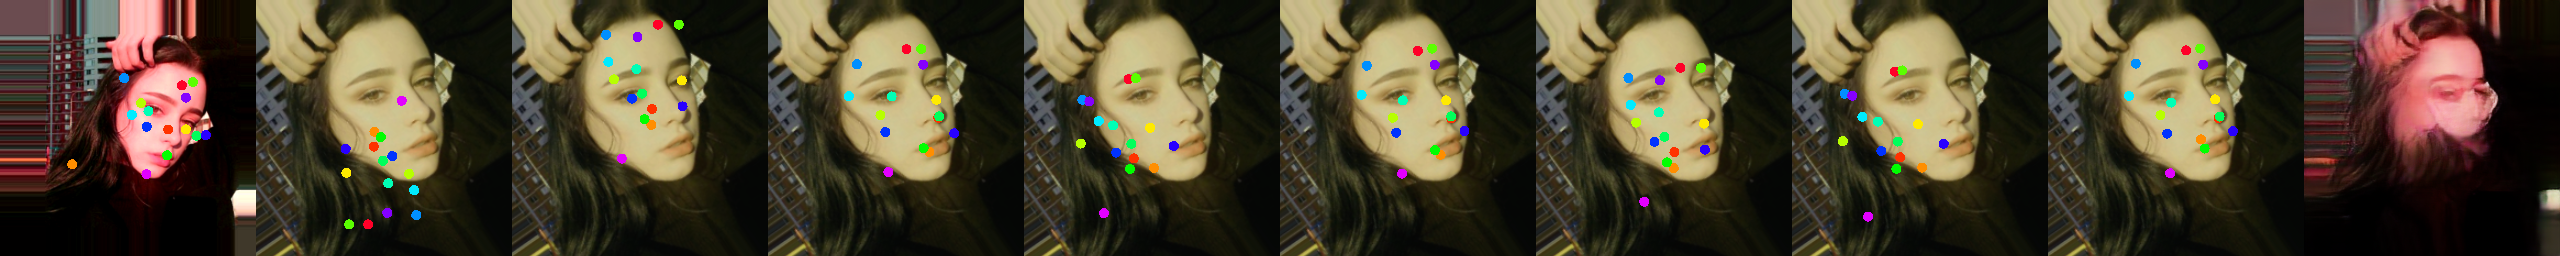
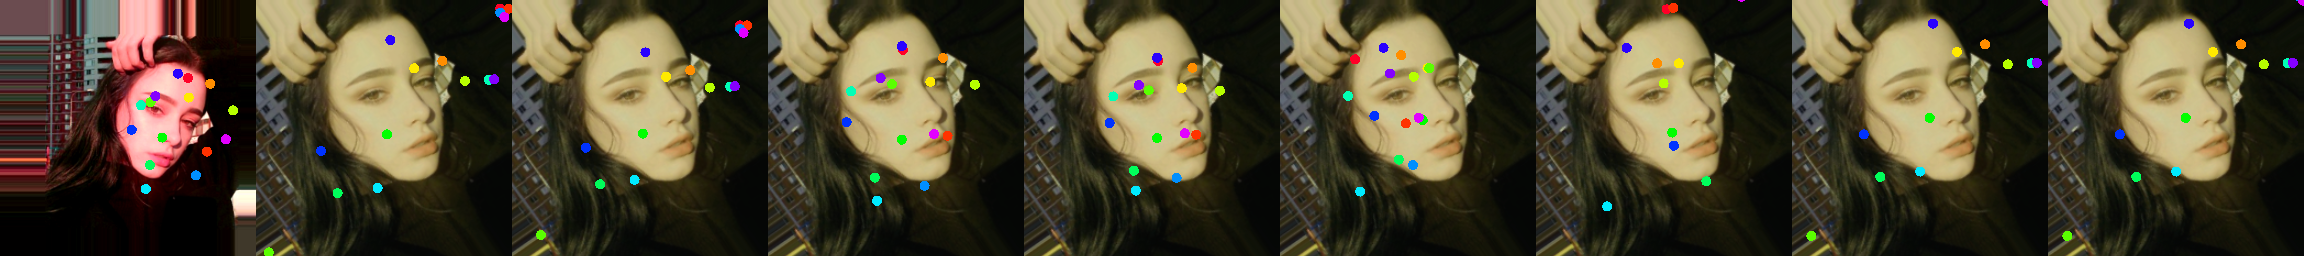
no detach

diff --git a/draw_kp.py b/draw_kp.py
@@ -232,8 +232,9 @@ def demo(args):
         with torch.no_grad():
             hp.eval()
             yaw, pitch, roll = hp(F.interpolate(apply_imagenet_normalization(s), size=(224, 224)))
-        kp_s, Rs = transform_kp(kp_c, yaw, pitch, roll, t, scale)
-        kp_s, _, _, _, _ = g_models["efe"](s, None, kp_s, train_vae=False)
+        
+        delta_s, _, _, _, _ = g_models["efe"](s, None, kp_c)
+        kp_s, Rs = transform_kp(kp_c + delta_s, yaw, pitch, roll, t, scale)
         
         for dri in driving_paths:
             img = img_as_float32(io.imread(dri))[:, :, :3]
@@ -245,33 +246,25 @@ def demo(args):
                 yaw, pitch, roll = hp(F.interpolate(apply_imagenet_normalization(img), size=(224, 224)))
             
             # delta = delta
-            kp_d1, Rd = transform_kp(kp_c, yaw*0, pitch*0, roll*0, t*0, scale=1)
+            delta_d, _, _, _, _ = g_models["efe"](img, None, kp_c)
+            kp_d1 = kp_c
             kp_d2, Rd = transform_kp(kp_c, yaw*0, pitch*0, roll*0, t*0, scale)
-            # kp_d2 = kp_d1 * -1
-            kp_d3, _, _, _, _ = g_models["efe"](img, None, kp_d2, train_vae=False)
-            
-            kp_d4, Rd = transform_kp(kp_c, yaw, pitch, roll, t, scale=-1)
-            kp_d5, _, _, _, _ = g_models["efe"](img, None, kp_d4, train_vae=False)
+            kp_d3 = kp_c + delta_d
+            kp_d4, Rd = transform_kp(kp_c + delta_d, yaw*0, pitch*0, roll*0, t*0, scale)
+            kp_d5, Rd = transform_kp(kp_c + delta_d, yaw, pitch, roll, t, scale)
+            kp_d6, Rd = transform_kp(kp_c + delta_d*0, yaw, pitch, roll, t*0, scale=1)
+            kp_d7, Rd = transform_kp(kp_c + delta_d*0, yaw*0, pitch*0, roll*0, t, scale=1)
+            kp_d8 = kp_d7
 
-            # kp_d6, Rd = transform_kp(kp_c, yaw, pitch, roll, t, scale=-1)
-            # kp_d7, _, _, _, _ = g_models["efe"](img, None, kp_d6, train_vae=False)
-            
-            kp_d6, Rd = transform_kp(kp_c, yaw*0, pitch*0, roll*0, t, scale)
-            kp_d7, Rd = transform_kp(kp_c, yaw, pitch, roll, t, scale)
-            kp_d8, _, _, _, _ = g_models["efe"](img, None, kp_c, train_vae=False)
-            # print(kp_c)
-            # print(scale)
-            # print(t)
-            # print(kp_d7 - kp_d7_old)
-            # print(Rd)
-            deformation, occlusion, mask = g_models["mfe"](fs, kp_s, kp_d8, Rs, Rd)
-            generated_d = g_models["generator"](fs, deformation, occlusion)
+
+            # deformation, occlusion, mask = g_models["mfe"](fs, kp_s, kp_d8, Rs, Rd)
+            # generated_d = g_models["generator"](fs, deformation, occlusion)
 
             s_np = s.data.cpu()
             kp_s_np = kp_s.data.cpu().numpy()[:, :, :2]
             s_np = np.transpose(s_np, [0, 2, 3, 1])
             img_np = img.data.cpu()
-            generated_d_np = generated_d.data.cpu()
+            # generated_d_np = generated_d.data.cpu()
 
             kp_d1_np = kp_d1.data.cpu().numpy()[:, :, :2]
             kp_d2_np = kp_d2.data.cpu().numpy()[:, :, :2]
@@ -283,8 +276,8 @@ def demo(args):
             kp_d8_np = kp_d8.data.cpu().numpy()[:, :, :2]
 
             img_np = np.transpose(img_np, [0, 2, 3, 1])
-            generated_d_np = np.transpose(generated_d_np, [0, 2, 3, 1])
-            img_with_kp = [(s_np, kp_s_np), (img_np, kp_d1_np), (img_np, kp_d2_np), (img_np, kp_d3_np), (img_np, kp_d4_np), (img_np, kp_d5_np), (img_np, kp_d6_np), (img_np, kp_d7_np), (img_np, kp_d8_np),generated_d_np]
+            # generated_d_np = np.transpose(generated_d_np, [0, 2, 3, 1])
+            img_with_kp = [(s_np, kp_s_np), (img_np, kp_d1_np), (img_np, kp_d2_np), (img_np, kp_d3_np), (img_np, kp_d4_np), (img_np, kp_d5_np), (img_np, kp_d6_np), (img_np, kp_d7_np), (img_np, kp_d8_np)]
             img_with_kp = vs.create_image_grid(*img_with_kp)
             img_with_kp = img_with_kp.clip(0, 1)
             img_with_kp = (255 * img_with_kp).astype(np.uint8)
@@ -303,7 +296,7 @@ if __name__ == "__main__":
 
     parser.add_argument("--ckp_dir", type=str, default="ckp", help="Checkpoint dir")
     parser.add_argument("--output", type=str, default="output.gif", help="Output video")
-    parser.add_argument("--ckp", type=int, default=19, help="Checkpoint epoch")
+    parser.add_argument("--ckp", type=int, default=13, help="Checkpoint epoch")
     parser.add_argument("--source", type=str, default="./kp_d/d", help="Source image, f for face frontalization, r for reconstruction")
     parser.add_argument("--driving", type=str, default='./kp_s', help="Driving dir")
     parser.add_argument("--num_frames", type=int, default=90, help="Number of frames")

diff --git a/dataset.py b/dataset.py
@@ -206,7 +206,7 @@ class AudioDataset(Dataset):
         video_array = read_video(video_name, self.frame_shape)
 
         num_frames = len(video_array)
-        frame_idx = np.sort(np.random.choice(range(3, num_frames-3), replace=True, size=2))
+        frame_idx = np.sort(np.random.choice(range(4, num_frames-4), replace=True, size=2))
         # video_array = video_array[frame_idx]
 
         basename = os.path.basename(video_name).split('.')[0]
